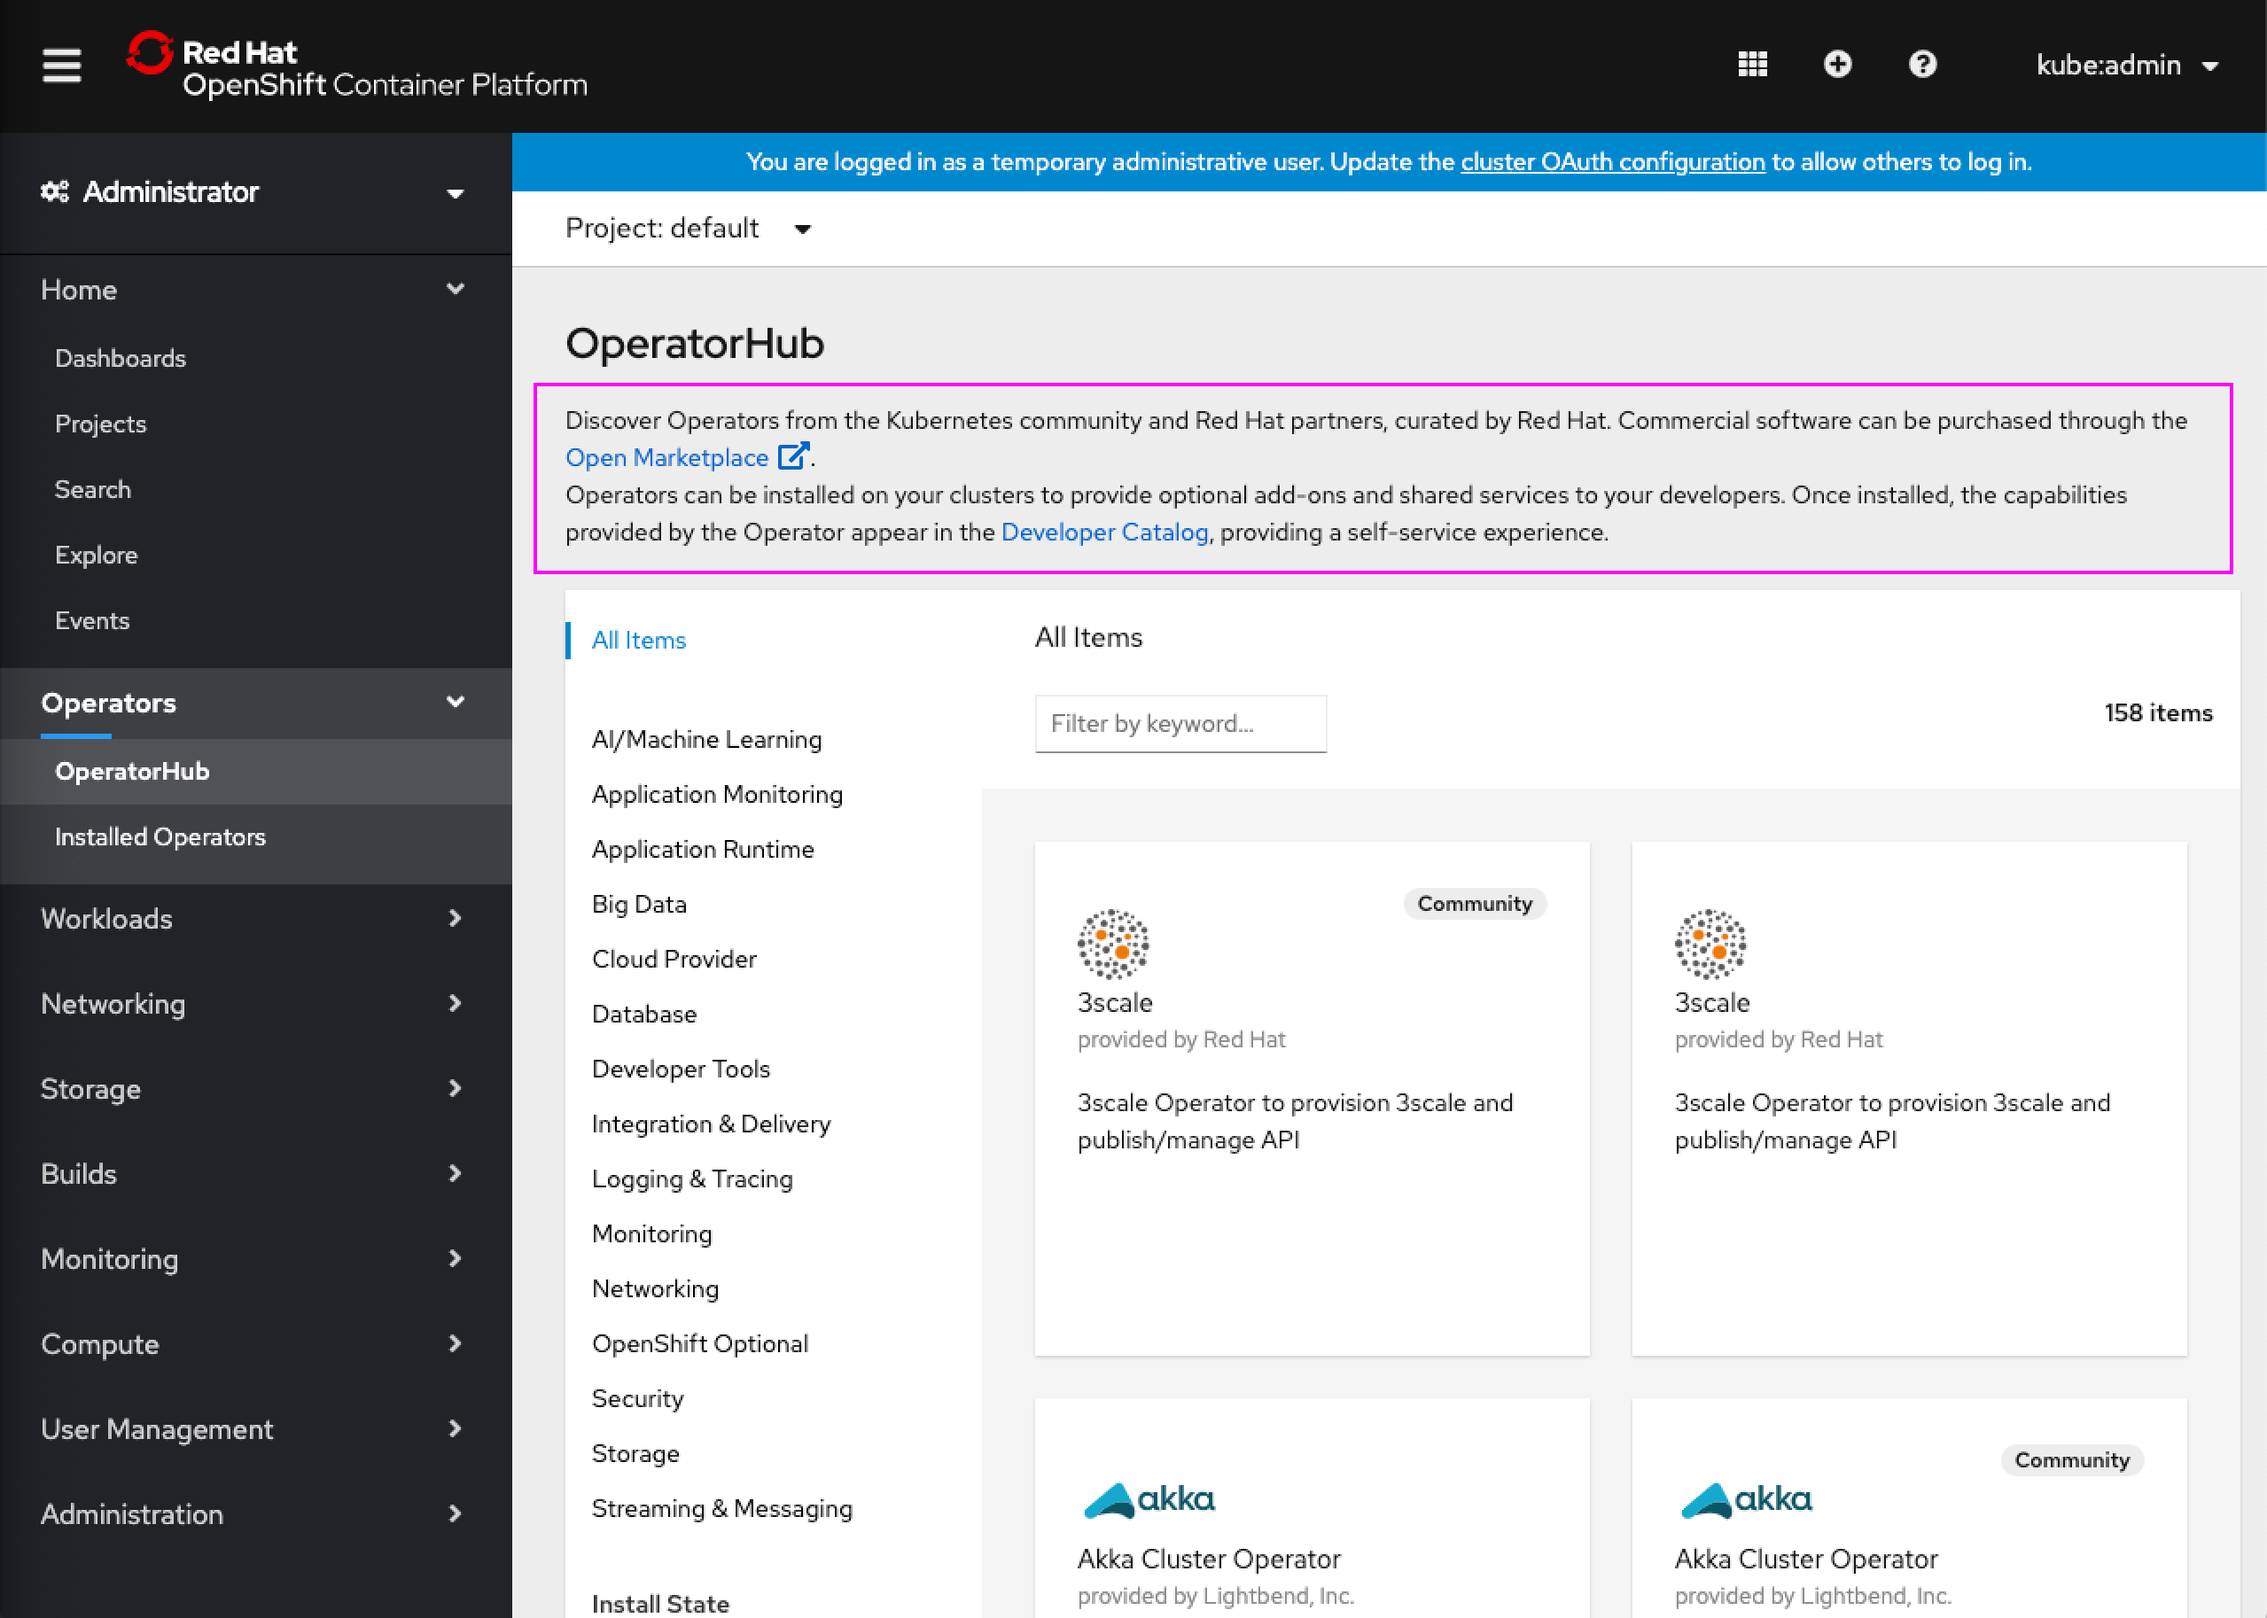
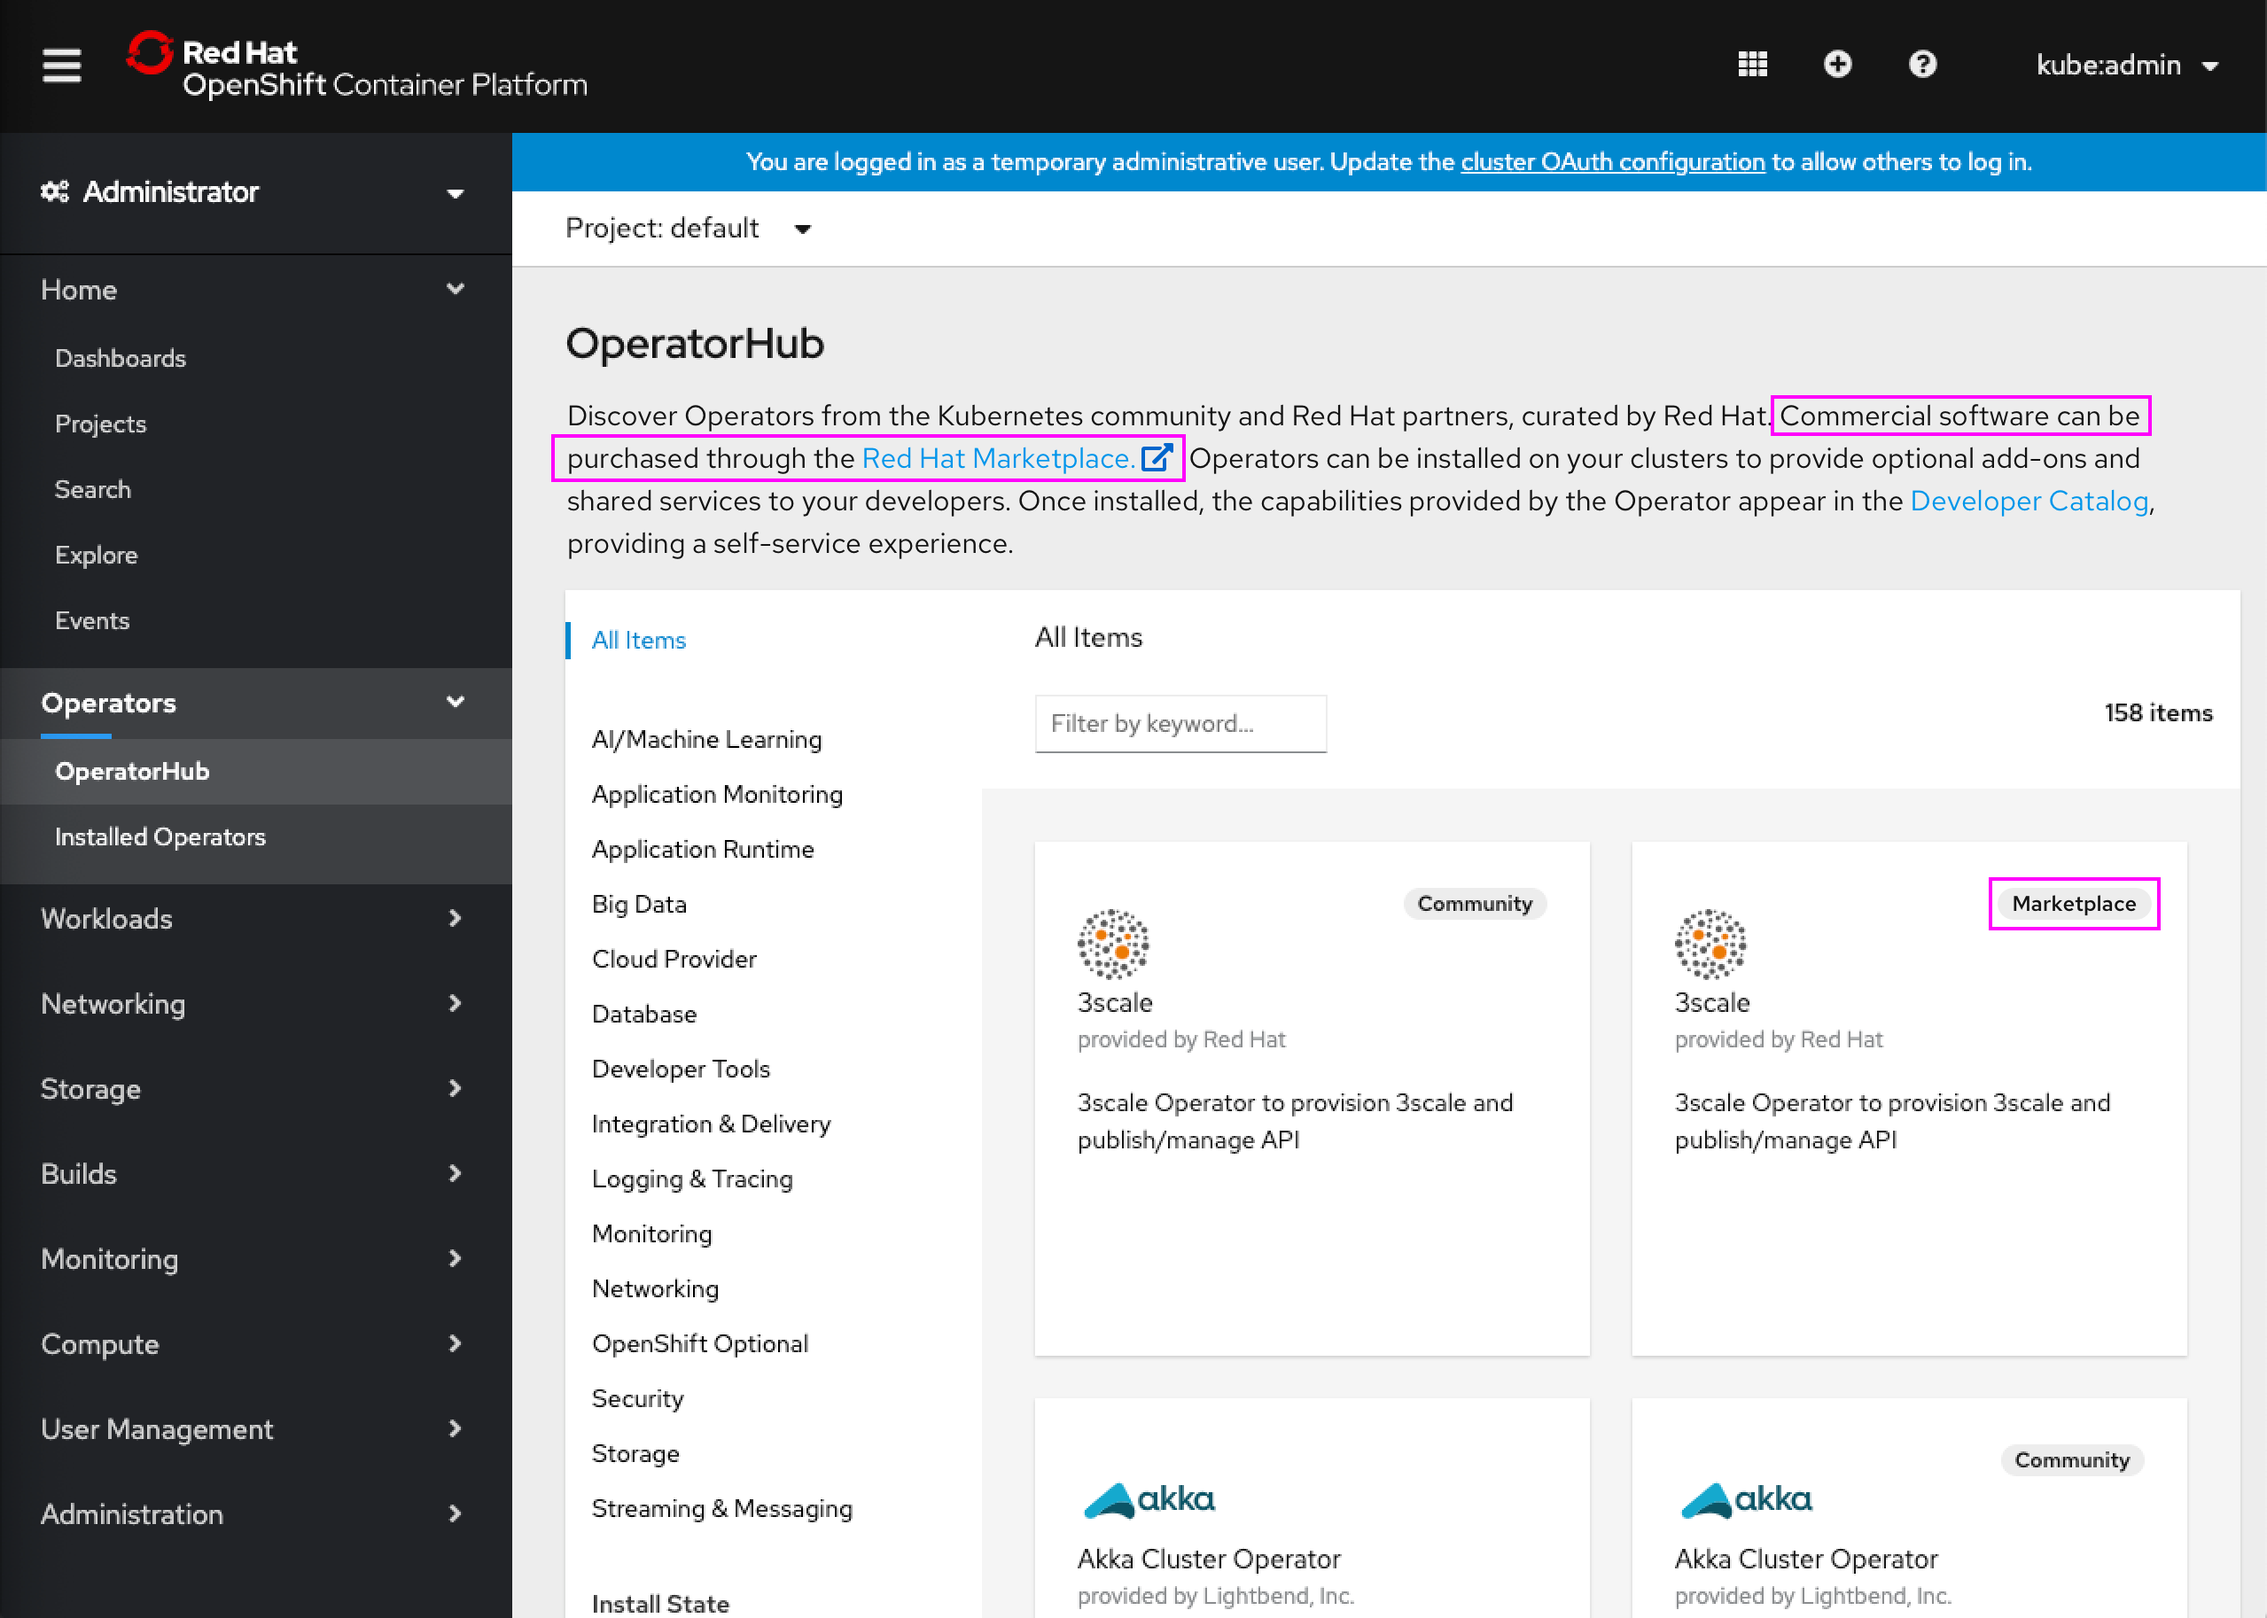
Updated to PF4 modal style, changed Open to Red Hat Marketplace

Changed region(s): [[0.2471, 0.2185, 0.9574, 0.3434], [0.8647, 0.5307, 0.9574, 0.5619]]

diff --git a/admin-perspective/olm/openmarketplace-support/openmarketplace-support.md b/admin-perspective/olm/openmarketplace-support/openmarketplace-support.md
@@ -1,16 +1,21 @@
-# Open Marketplace Support
+# Red Hat Marketplace Support
 
-Users can now install operators from the Open Marketplace from within OpenShift Web Console via OperatorHub. Users will be linked to the Open Marketplace to purchase operators and then are able to complete installation in OperatorHub.
+Users can now install operators from the Red Hat Marketplace from within OpenShift Web Console via OperatorHub. Users will be linked to the Red Hat Marketplace to purchase operators and then are able to complete installation in OperatorHub.
 
-## Link to Open Marketplace
+## OperatorHub supports Red Hat Marketplace Operators
 
 ![Cluster dashboard status card message click](img/1-1-linktomarketplace.png)
-- A link to the Open Marketplace is provided for users to browse and purchase operators from the Open Marketplace directly
-- Detailed text in OperatorHub is updated to now include a link to Open Marketplace
+- A link to the Red Hat Marketplace is provided for users to browse and purchase operators from the Red Hat Marketplace directly.
+- Detailed text in OperatorHub is updated to now include a link to Red Hat Marketplace.
+- Marketplace operators are displayed with a **Marketplace** badge.
 
 ## Purchasing and Installing a Marketplace Operator
 
 ![Cluster dashboard status card message click](img/1-2-purchasemarketplace.png)
-- Operators from the Open Marketplace will have a “Marketplace” badge in OperatorHub, and when opened, will have a hint similar to the Community operator hint that describes this operator is from the Open Marketplace and can be purchased
-- A **Purchase** button will now also be present for Marketplace operators that links to Open Marketplace for purchaing of that operator. At this time the UI is not able to determine when the operator has already been purchased so both the **Purchase** and **Install** buttons will always appear for Marketplace operators
-- The buttons will be numbered to convey the expected flow of first purchasing and then installing the operator
+- Operators from Red Hat Marketplace will have a hint similar to the Community operator hint that describes this operator is from the Red Hat Marketplace and can be purchased.
+- A **Purchase** button will now also be present for marketplace operators that links to Red Hat Marketplace for purchasing of that operator. At this time the UI is not able to determine when the operator has already been purchased so both the **Purchase** and **Install** buttons will always appear for marketplace operators that have not been installed.
+- The buttons will be numbered to convey the expected flow of first purchasing and then installing the operator.
+
+![Cluster dashboard status card message click](img/1-3-purchasemarketplace-installed.png)
+
+- Once installed, marketplace operators still display the purchase button in case the user had not purchased the operator before installing it. The numbering is no longer icluded in the button labels.
